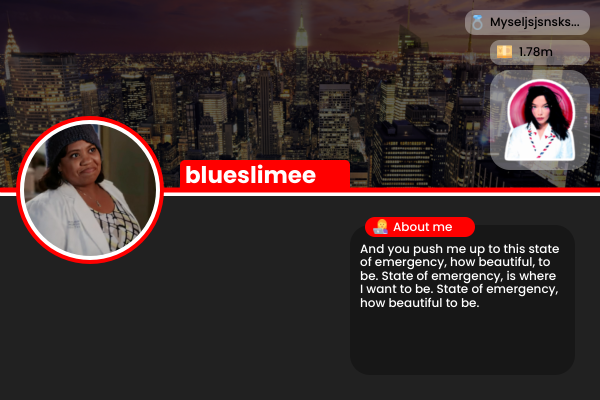
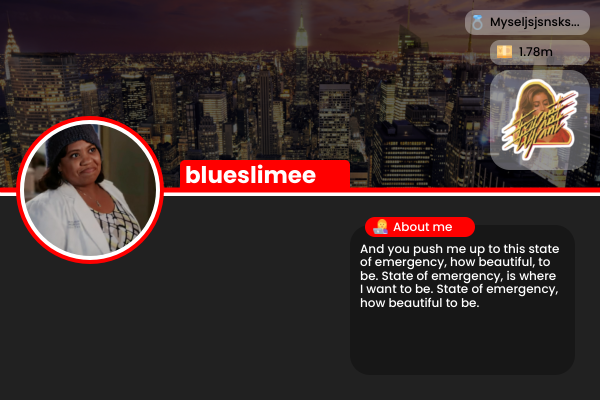
add http server, rename bjork sticker

Changed region(s): [[0.84, 0.18, 0.96, 0.42]]

diff --git a/src/generator/profile/default.go b/src/generator/profile/default.go
@@ -7,14 +7,20 @@ import (
 
 import "github.com/fogleman/gg"
 
-type DefaultProfile struct {
-  Generator generator.Generator
-  AvatarURL, Background, Sticker string
-  Married bool
-  Name, AboutMe, FavColor, Money, PartnerName string
+type ProfileData struct {
+  AvatarURL string `json:"avatarUrl" form:"avatarUrl"`
+  Background string `json:"bgId" form:"bgId"`
+  Sticker string `json:"stickerId" form:"stickerId"`
+  Married bool `json:"married" form:"married"`
+  Name string `json:"name" form:"name"`
+  AboutMe string `json:"aboutMe" form:"aboutMe"`
+  FavColor string `json:"favColor" form:"favColor"`
+  Money string `json:"money" form:"money"`
+  Type string `json:"type" form:"type"`
+  PartnerName string `json:"partnerName" form:"partnerName"`
 }
 
-func (p DefaultProfile) Render() image.Image {
+func RenderDefaultProfile(g generator.Generator, p *ProfileData) image.Image {
   dc := gg.NewContext(600, 400)
   // BASE COLOR
   dc.SetHexColor("212121")
@@ -23,7 +29,7 @@ func (p DefaultProfile) Render() image.Image {
   dc.LoadFontFace("../assets/fonts/Poppins/Poppins-Medium.ttf", 12)
   
   // BACKGROUND
-  img := p.Generator.Toolbox.GetAsset("bgs/"+ p.Background)
+  img := g.Toolbox.GetAsset("bgs/"+ p.Background)
   dc.DrawImage(img, 0, 0)
   rect := gg.NewContext(600, 190)
   rect.SetRGBA(0, 0, 0, 98)
@@ -53,11 +59,11 @@ func (p DefaultProfile) Render() image.Image {
     dc.Fill()
     
     // RING EMOJI / MARRIED
-    img = p.Generator.Toolbox.GetAsset("emojis/ring")
+    img = g.Toolbox.GetAsset("emojis/ring")
     dc.DrawImage(img, 470, 15)
     
     dc.SetHexColor("000000")
-    p.Generator.Toolbox.SafeDrawString(dc, p.PartnerName, 490, 26, 105)
+    g.Toolbox.SafeDrawString(dc, p.PartnerName, 490, 26, 105)
   }
   
   // R RECT YEN
@@ -74,7 +80,7 @@ func (p DefaultProfile) Render() image.Image {
   dc.DrawRoundedRectangle(350, 225, 225, 150, 20)
   dc.Fill()
   // STICKER DRAWING
-  img = p.Generator.Toolbox.GetAsset("stickers/"+ p.Sticker)
+  img = g.Toolbox.GetAsset("stickers/"+ p.Sticker)
   dc.DrawImage(img, 490, stickery)
   
   // WHITE CONTOURS
@@ -102,7 +108,7 @@ func (p DefaultProfile) Render() image.Image {
   
   /* EMOJIS (15x15) */
   // YEN/MONEY
-  img = p.Generator.Toolbox.GetAsset("emojis/money")
+  img = g.Toolbox.GetAsset("emojis/money")
   dc.DrawImage(img, 497, moneyy + 3)
   
   /* AVATAR DRAWING */
@@ -115,7 +121,7 @@ func (p DefaultProfile) Render() image.Image {
   dc.DrawCircle(float64(x), float64(y), 70)
   dc.Fill()
   
-  avatar := p.Generator.Toolbox.ReadImageFromURL(p.AvatarURL, avatarSize, avatarSize)
+  avatar := g.Toolbox.ReadImageFromURL(p.AvatarURL, avatarSize, avatarSize)
   dc.DrawCircle(float64(x), float64(y), 66)
   dc.Clip()
   dc.DrawImageAnchored(avatar, x, y, 0.5, 0.5)
@@ -126,10 +132,10 @@ func (p DefaultProfile) Render() image.Image {
   dc.DrawString(p.Money, 519, float64(moneyy) + 16)
   
   // "ABOUT" ME" @ about ME
-  img = p.Generator.Toolbox.GetAsset("emojis/woman_laptop")
+  img = g.Toolbox.GetAsset("emojis/woman_laptop")
   dc.DrawImage(img, 373, 219)
   
-  dc.SetHexColor(p.Generator.Toolbox.GetCompatibleFontColor(p.FavColor))
+  dc.SetHexColor(g.Toolbox.GetCompatibleFontColor(p.FavColor))
   dc.DrawString("About me", 393, 231)
   
   dc.SetHexColor("ffffff")
@@ -140,10 +146,8 @@ func (p DefaultProfile) Render() image.Image {
   
   // USERNAME
   // FIND OUT WHICH ONE IS MORE VISIBLE WITH THE CURRENT COLOR SCHEME: BLACK OR WHITE.
-  dc.SetHexColor(p.Generator.Toolbox.GetCompatibleFontColor(p.FavColor))
-  p.Generator.Toolbox.SafeDrawString(dc, p.Name, 185, 183, 160)
-  
-  dc.SavePNG("out.png")
+  dc.SetHexColor(g.Toolbox.GetCompatibleFontColor(p.FavColor))
+  g.Toolbox.SafeDrawString(dc, p.Name, 185, 183, 160)
   
   return dc.Image()
 }

diff --git a/src/server/server.go b/src/server/server.go
@@ -1,0 +1,43 @@
+package server
+
+import (
+  "github.com/gofiber/fiber/v2"
+  "tokamak/src/generator"
+  "image"
+  "image/png"
+  "tokamak/src/generator/profile"
+)
+
+func StartServer (port string) {
+  app := fiber.New()
+  gen := generator.NewGenerator()
+  encoder := png.Encoder {
+    CompressionLevel: -1, // no compression.
+  }
+  
+  app.Get("/version", func(c *fiber.Ctx) error {
+    return c.SendString("tokamak v1 (fasthttp/fiber; golang)")
+  })
+  
+  app.Post("/render/profile", func (c *fiber.Ctx) error {
+    p := new(profilegenerator.ProfileData)
+    
+    if err := c.BodyParser(p); err != nil {
+      return err
+    }
+    
+    var img image.Image
+    c.Set("Content-Type", "image/png")
+    
+    switch p.Type {
+      case "default":
+        img = profilegenerator.RenderDefaultProfile(gen, p)
+      default:
+        img = profilegenerator.RenderDefaultProfile(gen, p)
+    }
+    
+    return encoder.Encode(c.Context(), img)
+  })
+  
+  app.Listen(":" + port)
+}

diff --git a/src/main.go b/src/main.go
@@ -1,24 +1,22 @@
 package main
 
 import (
-  "tokamak/src/generator"
-  "tokamak/src/generator/profile"
+  "tokamak/src/server"
 )
 
 func main() {
-	p := generator.NewGenerator()
-	gen := profilegenerator.DefaultProfile {
-	  Generator: p,
+	/*d := profilegenerator.ProfileData {
 	  Name: "blueslimee",
 	  AboutMe: "And you push me up to this state of emergency, how beautiful, to be. State of emergency, is where I want to be. State of emergency, how beautiful to be. ",
 	  AvatarURL: "https://cdn.discordapp.com/attachments/504668288798949376/771567079538688050/bailey_hat.jpeg",
 	  FavColor: "ff0000",
-	  Sticker: "bjork",
+	  Sticker: "kali_uchis_tyrant",
 	  Money: "1.78m",
 	  Background: "nyc_skyline",
 	  Married: true,
 	  PartnerName: "Myseljsjsnsksnajamsnkeksf",
 	}
 	
-	gen.Render()
+	gen.Render()*/
+	server.StartServer("1234")
 }

diff --git a/resizer.go b/resizer.go
@@ -11,11 +11,17 @@ import (
 import (
   "github.com/disintegration/imaging"
 )
+
+// X×Y
+// Stickers: 100x100
+// Emojis: 15x15
+// Bgs: 600x190
+
 func main () {
-  path := "./menina.png"
-  x := 15
-  y := 15
-  save_to := "./assets/images/emojis/woman_laptop.png"
+  path := "./kali.png"
+  x := 100
+  y := 100
+  save_to := "./assets/images/stickers/kali_uchis_tyrant.png"
   
   img_reader, err := os.Open(path)
   if err != nil {
